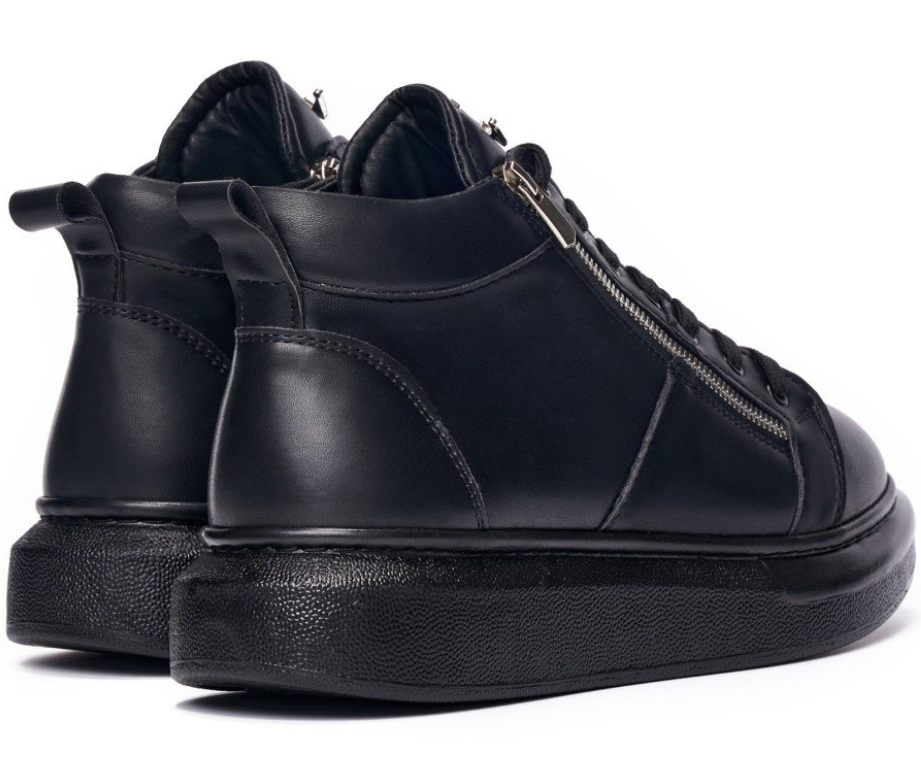
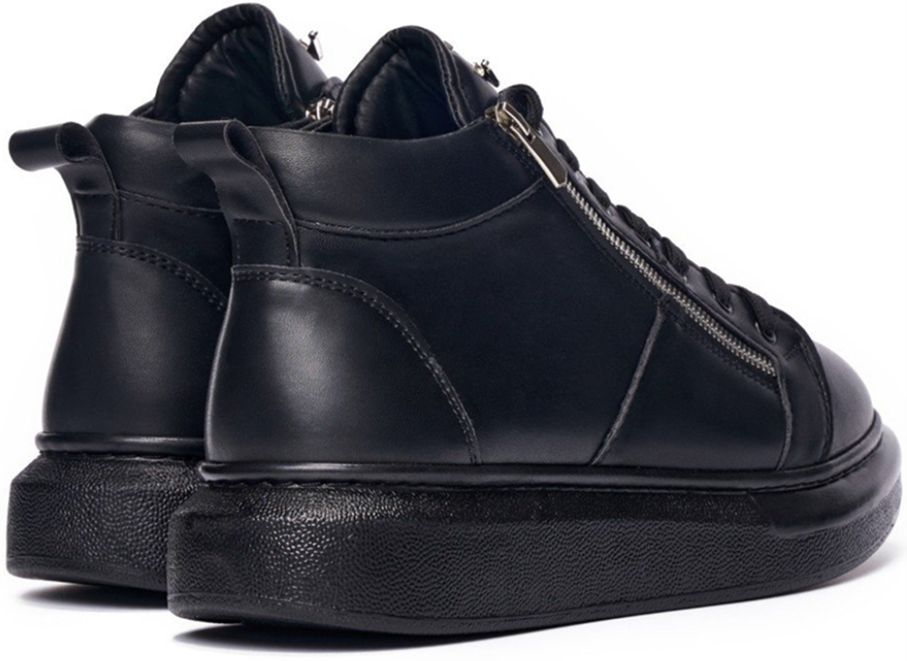
added some more fields to the product details

diff --git a/productPage.html b/productPage.html
@@ -1,5 +1,6 @@
 <!DOCTYPE html>
 <html lang="en">
+
 <head>
     <meta charset="UTF-8">
     <meta name="viewport" content="width=device-width, initial-scale=1.0">
@@ -7,24 +8,61 @@
     <link href="styles.css" rel="stylesheet">
     <script src="scripts.js" defer></script>
 </head>
+
 <body>
-    <h1>Hi-top Ultimate Trainer in Black</h1>
-    <section aria-label="Product Photos">
-        <div class="carousel" data-carousel>
+    <div id="product-details">
+        <div class="carousel" data-carousel aria-label="Product Photos">
             <button class="carousel-button prev" data-carousel-button="prev">&#60;</button>
             <button class="carousel-button next" data-carousel-button="next">&#62;</button>
             <ul data-slides>
+                <li class="slide">
+                    <img src="./hi top trainer front no bg.png" alt="Front of High Top Trainer">
+                </li>
                 <li class="slide" data-active>
-                    <img src="./hi top trainer front.png" alt="Front of High Top Trainer">
+                    <img src="./hi top trainer side no bg.png" alt="Side of High Top Trainer">
                 </li>
                 <li class="slide">
-                    <img src="./hi top trainer side.png" alt="Side of High Top Trainer">
-                </li>
-                <li class="slide">
-                    <img src="./Hi-top trainer back.png" alt="Back of High Top Trainer">
+                    <img src="./hi top trainer back no bg.png" alt="Back of High Top Trainer">
                 </li>
             </ul>
-        </section>
+        </div>
+        <div id="product-text">
+            <div id="product-title">
+                <p>Hi-top Ultimate Trainer in Black</p>
+            </div>
+            <div id="price">
+                <p>£42.99</p>
+            </div>
+            <div id="product-description">
+                <p>A sleek yet casual style trainer with a futurustic black design. Paired with comfortable cushioned
+                    soles, these trainers are perfect for everyday wear.</p>
+            </div>
+            <form>
+                <div id="inputSize">
+                    <label>Size: </label><br>
+                    <select name="sizes" class="sizes">
+                        <option value="" disabled selected>Select size: </option>
+                        <option value="3">3</option>
+                        <option value="3.5">3 1/2</option>
+                        <option value="4">4</option>
+                        <option value="4.5">4 1/2</option>
+                        <option value="5">5</option>
+                        <option value="5.5">5 1/2</option>
+                        <option value="6">6</option>
+                        <option value="6.5">6 1/2</option>
+                        <option value="7">7</option>
+                        <option value="7.5">7 1/2</option>
+                        <option value="8">8</option>
+                        <option value="8.5">8 1/2</option>
+                        <option value="9">9</option>
+                    </select>
+                </div>
+                <div class="checkout"><input type="submit" value="Add to Basket"></div><!-- there should be some php here tracks what the user put in our form and puts it in the basket-->
+                 <div class="checkout"><input type="submit" value="Buy Now"></div> 
+            </form>
+        </div>
     </div>
+
 </body>
+
 </html>

diff --git a/styles.css b/styles.css
@@ -4,12 +4,16 @@
 
 body {
     margin: 10;
+   
 }
 
 .carousel {
-    width: 100vw;
-    height: 100vh;
+    width: 50vw;
+    height: 50vh;
     position: relative;
+    border: 1px solid black;
+    padding-top: 5vw;
+    margin-top: 5vw;
 }
 
 /*active slide will be visible while none
@@ -23,7 +27,12 @@ active slides will be hidden. */
 .slide > img {
     display: block;
     object-fit: cover;
+    max-width: 30vw;
+    max-height: 30vw;
+    margin-left: auto;
+    margin-right: auto;
 }
+
 
 .slide[data-active] {
     opacity: 1;
@@ -34,7 +43,7 @@ active slides will be hidden. */
     z-index: 2;
     background: none;
     border: none;
-    font-size: 4rem;
+    font-size: 2rem;
     top: 50%;
     transform: translateY(-50%);
     color: rgb(255, 255, 255);
@@ -63,4 +72,29 @@ active slides will be hidden. */
     margin: 0;
     padding: 0;
     list-style: none;
+}
+
+#product-title {
+    display: flex;
+    padding-top: 3rem;
+    font-size: 2.5vw;
+}
+
+#product-description {
+    font-size: 1.2vw;
+    max-width: 30%;
+}
+
+#product-details {
+    gap: 3rem;
+    display: flex;
+    flex-wrap: nowrap;
+    max-width: 100%;
+    max-height: 50%;
+    vertical-align: top;
+    border: 1px solid black;
+}
+
+.checkout {
+    padding-top: 1rem;
 }
